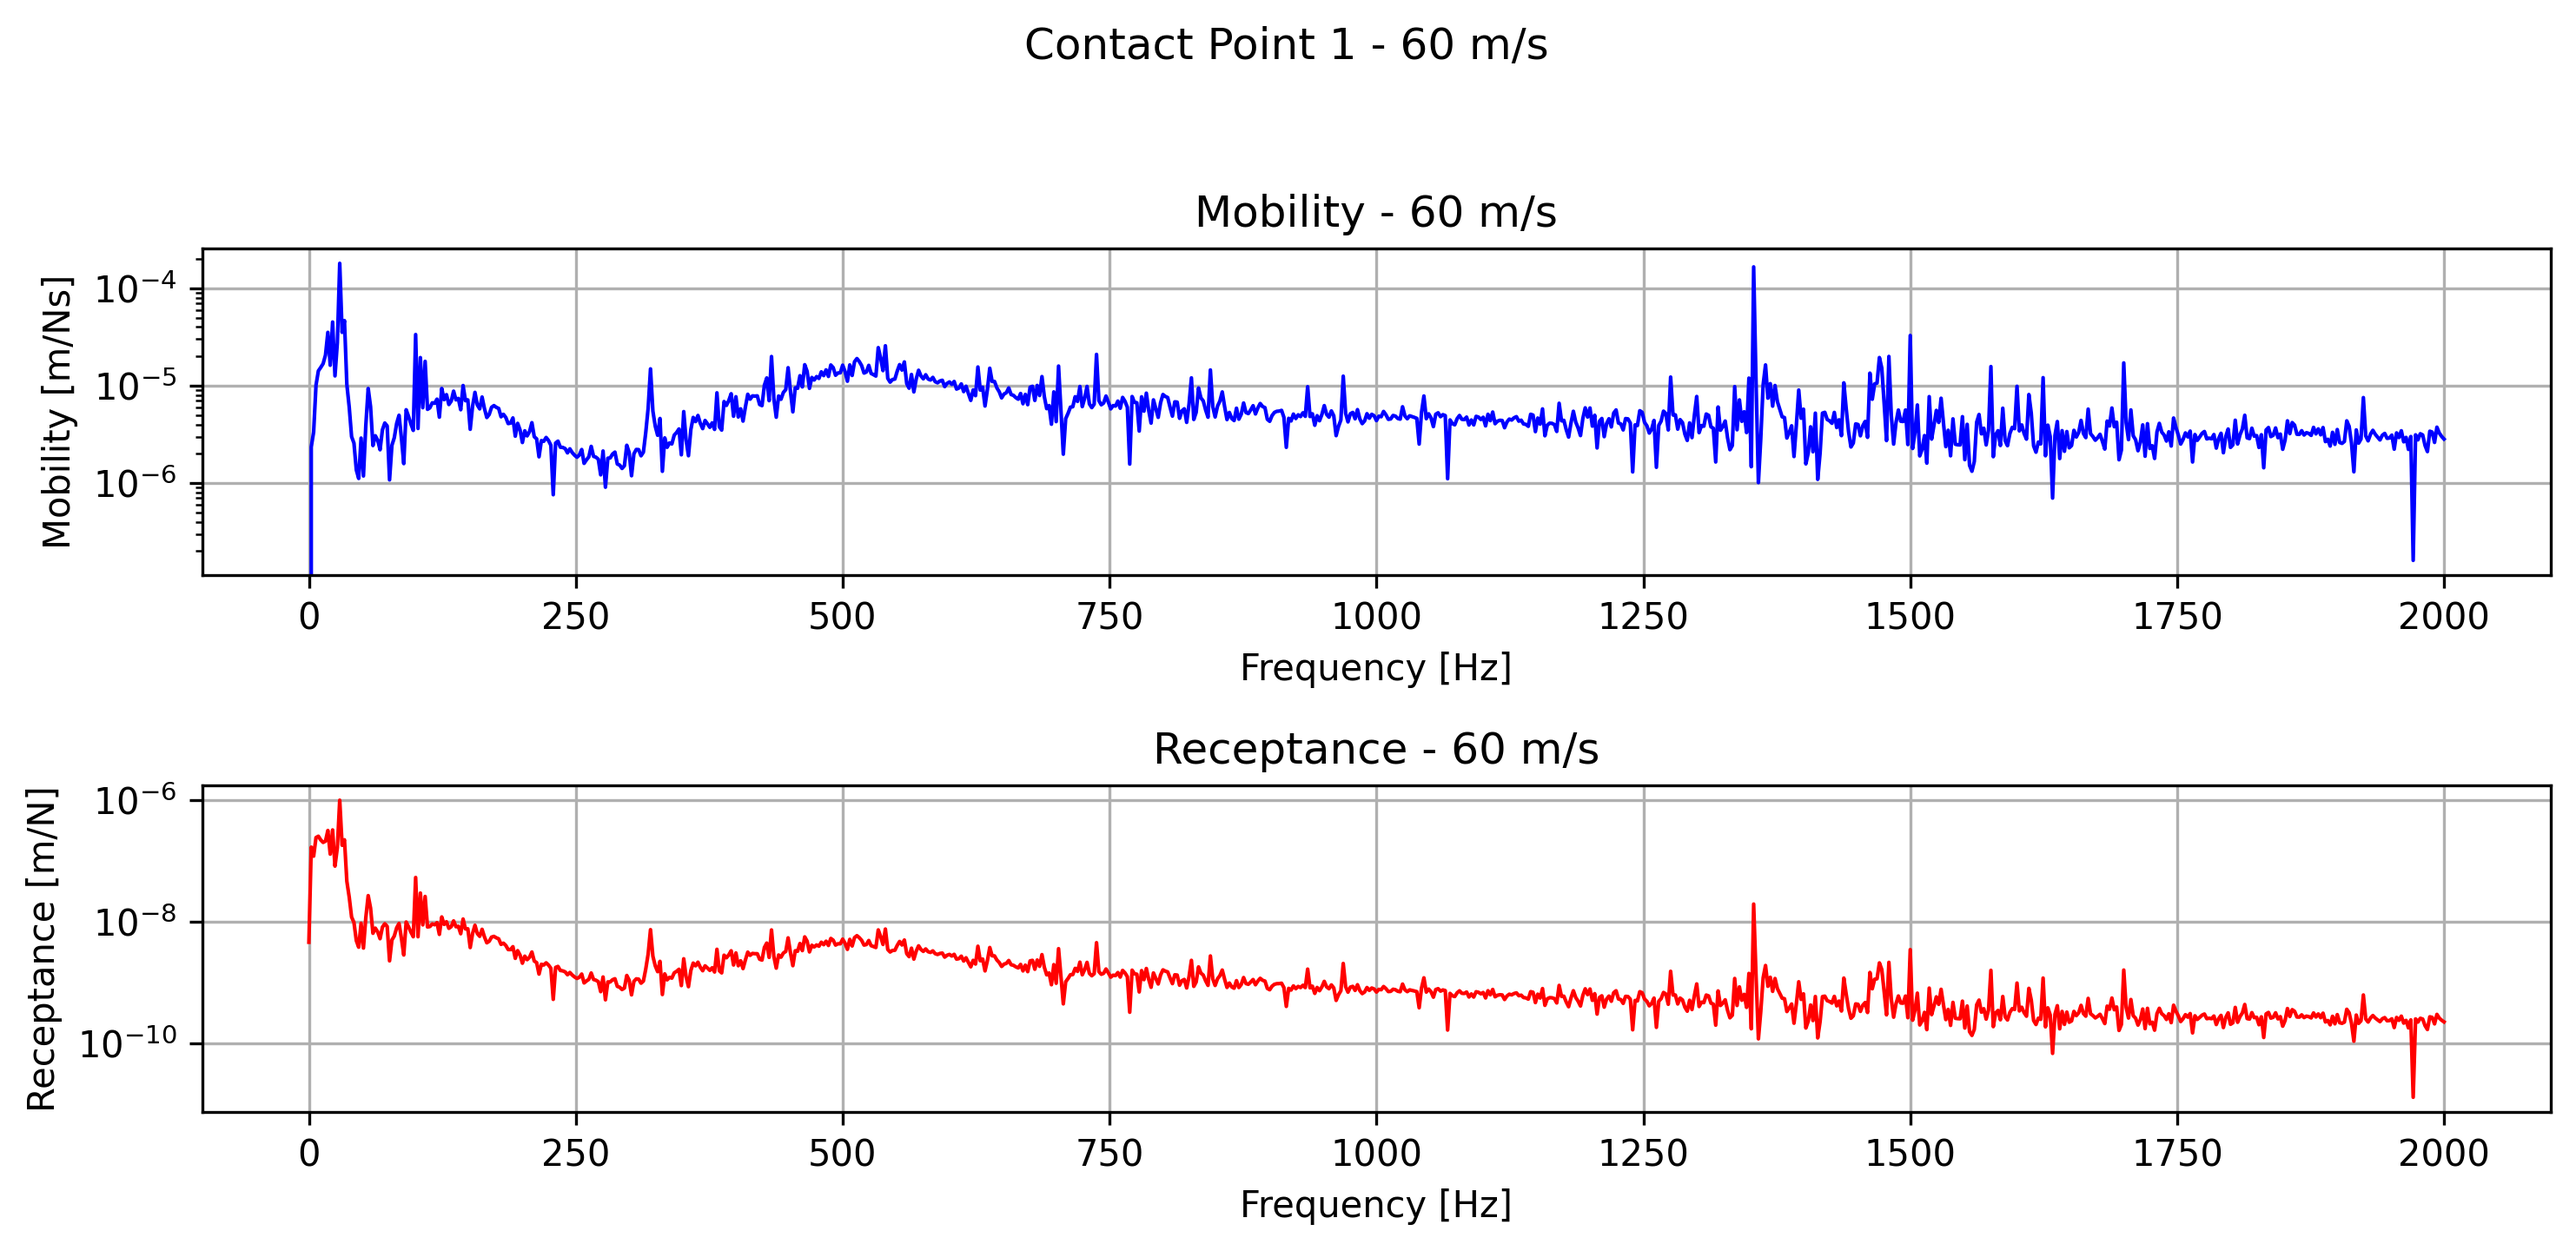
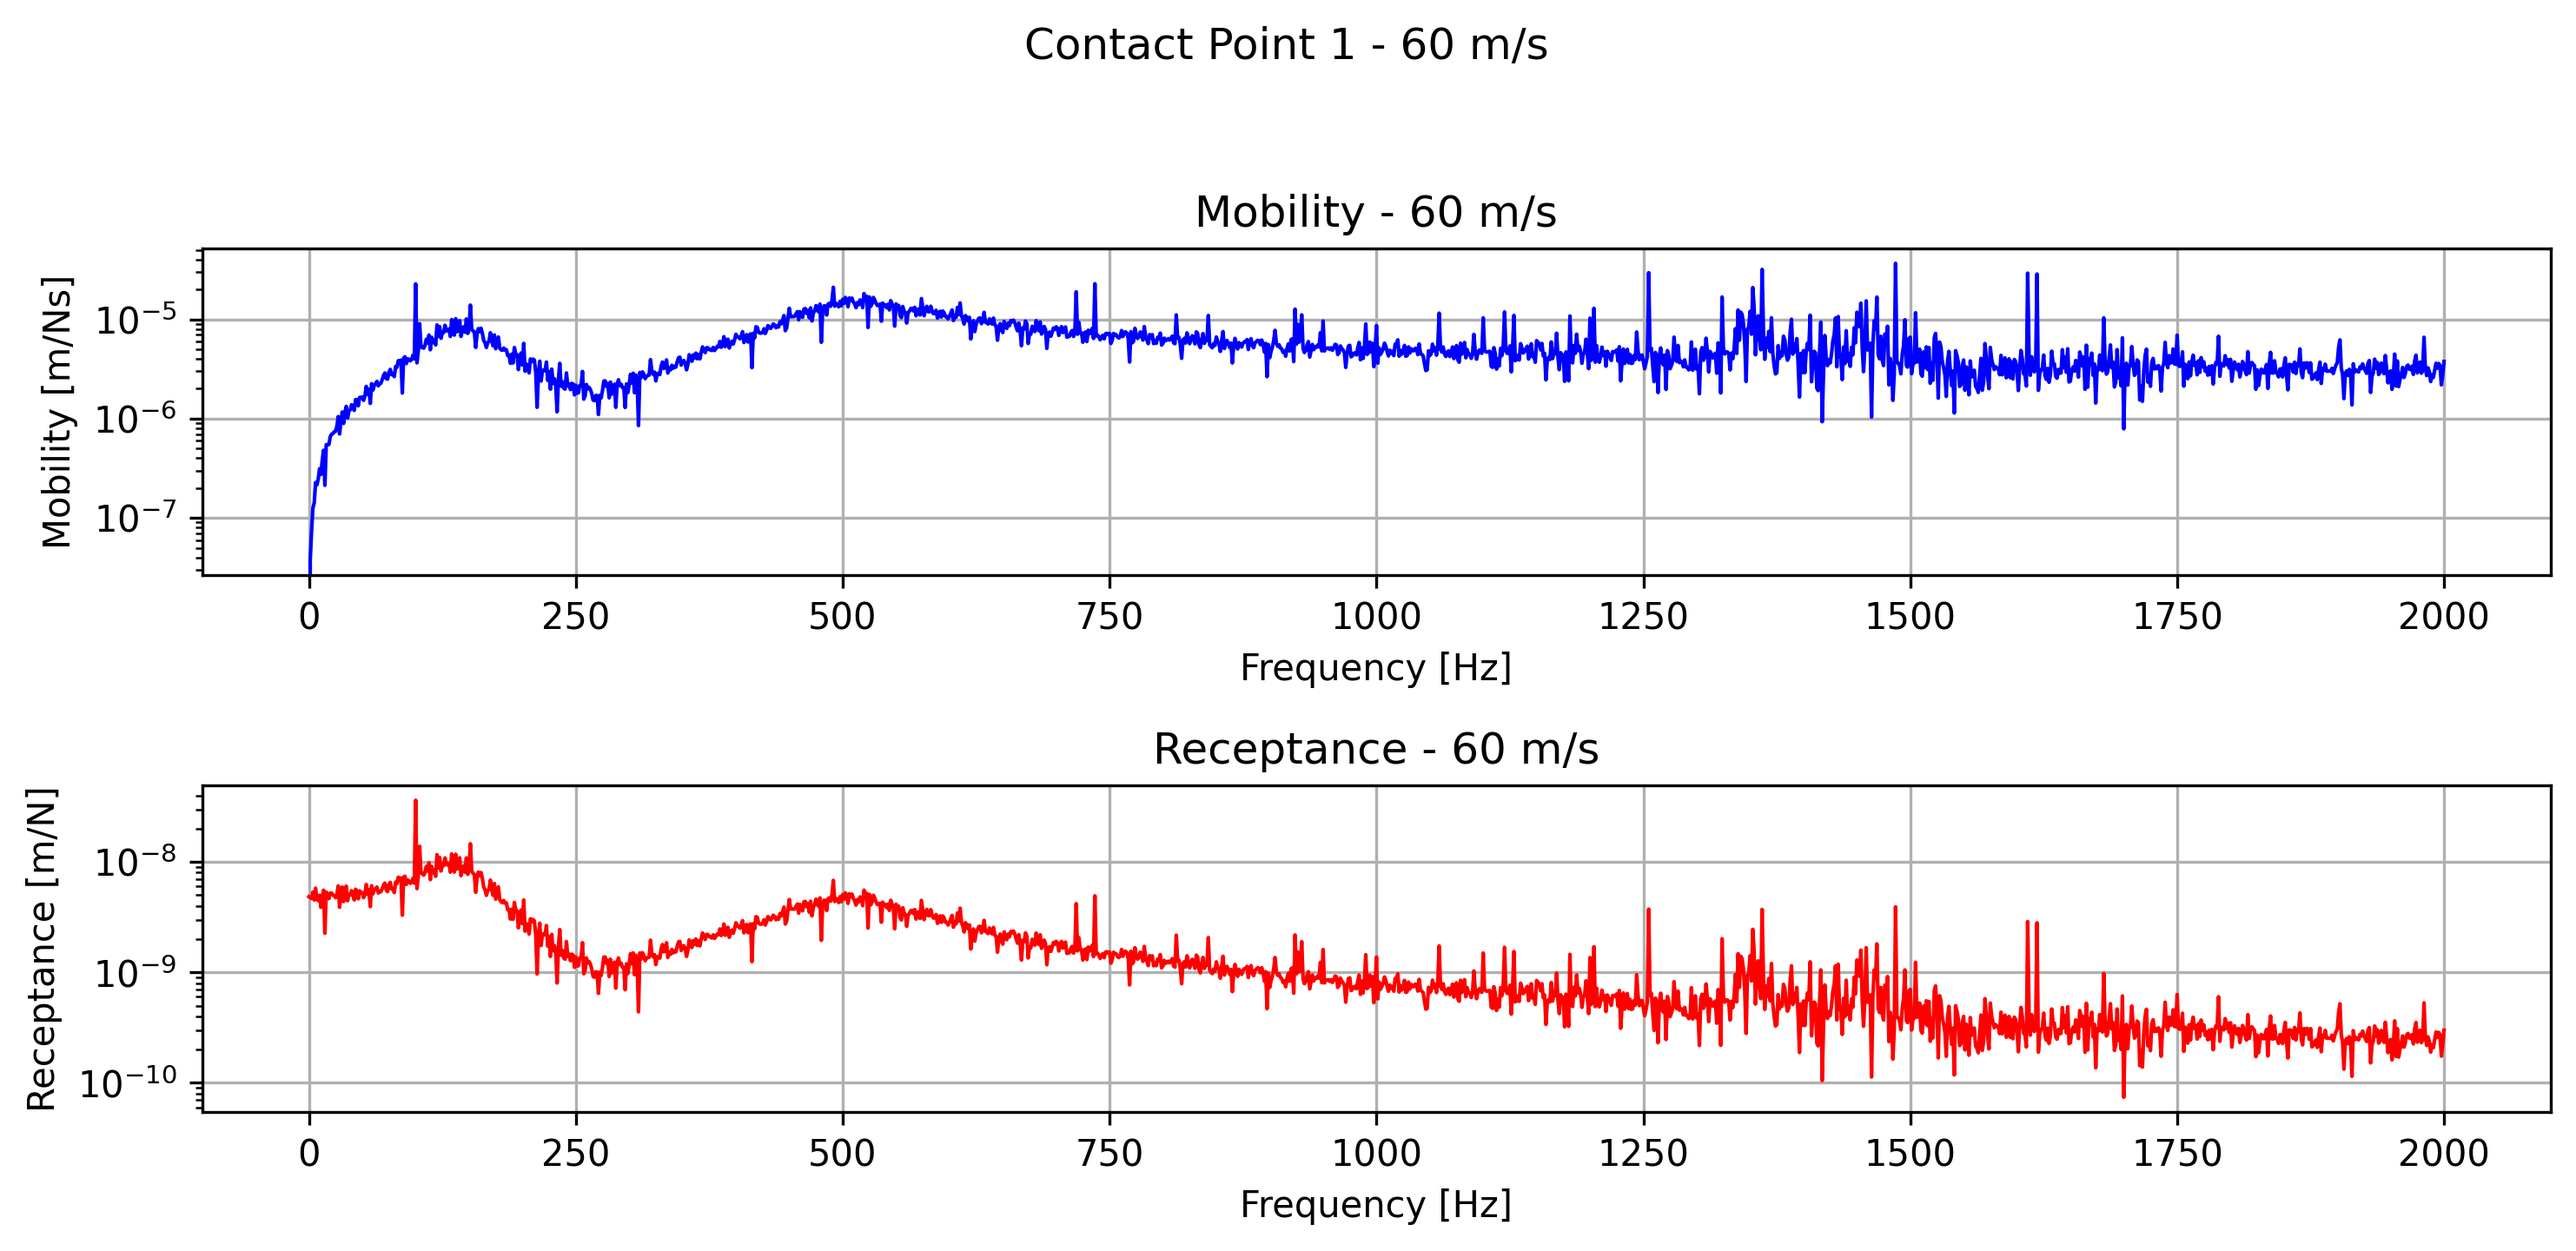
Checkpoint: clean results!

diff --git a/Moving_Force.py b/Moving_Force.py
@@ -38,10 +38,10 @@ store_deflection    = False     # TODO: this is not implemented yet!
 starting_position   = 80.0      # Starting position [m]
 num_mount           = 400       # Number of discrete mounting positions
 l_bound             = 40.0      # width of boundary domain
-req_simt            = 0.5       # Required simulation time [s]
-dt                  = 1e-5      # time step [s]
+req_simt            = 1         # Required simulation time [s]
+dt                  = 2e-5      # time step [s]
 velocities          = [60]      # Velocities to simulate [m/s]
-ramp_fraction       = 0.1       # fraction of total time for ramp up
+ramp_fraction       = 0.05       # fraction of total time for ramp up
 
 
 # =============================================================================
@@ -52,14 +52,14 @@ track = SimplePeriodicBallastedSingleRailTrack(
     rail    = UIC60,                # Standard UIC60 rail profile
     pad     = DiscrPad(
                 sp = [300e6, 0],    # Pad Stiffness [N/m]
-                # dp = [18000, 0]     # Pad Damping [Ns/m]
                 dp = [18000, 0]     # Pad Damping [Ns/m]
+                # dp = [2*18000, 0]     # Pad Damping [Ns/m]
     ),
     sleeper = Sleeper(ms=150),      # Sleeper mass [kg]
     ballast = Ballast(
                 sb = [150e6, 0],    # Ballast stiffness [N/m]
-                # db = [48000, 0]     # Ballast damping [Ns/m]
                 db = [48000, 0]     # Ballast damping [Ns/m]
+                # db = [2*48000, 0]     # Ballast damping [Ns/m]
     ),
     num_mount   = num_mount,               # Number of discrete mounting positions
     distance    = 0.6                      # Distance between sleepers [m]
@@ -90,7 +90,7 @@ for vel in velocities:
     
     # Define moving load excitation
     excitation = ConstantForce(
-        ramp_fraction     = ramp_fraction,
+        ramp_fraction   = ramp_fraction,
         x_excit         = [starting_position],
         # x_excit         = [starting_position,
         #                    starting_position + 2.5],    # Starting positions [m]
@@ -108,8 +108,8 @@ for vel in velocities:
     # Solve for deflection
     deflection_results = DeflectionEBBVertic(
         store_deflection = store_deflection,
-        discr=discretization,
-        excit=excitation
+        discr            = discretization,
+        excit            = excitation
     )
 
     # =============================================================================
@@ -120,14 +120,17 @@ for vel in velocities:
     fs = 1 / (t[1] - t[0])
 
     # Skip only the ramp
-    ramp_length = excitation.ramp_length
+    # ramp_length = excitation.ramp_length
+    ramp_length = 10000  # NOTE: hardcoded for now, change later
     
     # FFT of force (skip ramp transient)
     force_fft = fft(deflection_results.force[ramp_length:])
 
     # Process each contact point
     for i, contact_defl in enumerate(deflection_results.contact_point_deflection):
-        deflection_fft = fft(contact_defl[ramp_length:] * scipy.signal.windows.tukey(len(contact_defl[ramp_length:]), alpha = 0.1))
+        # deflection_fft = fft(contact_defl[ramp_length:] * scipy.signal.windows.tukey(len(contact_defl[ramp_length:]), alpha = 0.1))
+        deflection_fft = fft(contact_defl[ramp_length:])
+
         # deflection_fft = fft(contact_defl[ramp_length:])
         freqs = fftfreq(len(t[ramp_length:]), 1/fs)
         omega = 2 * np.pi * freqs
